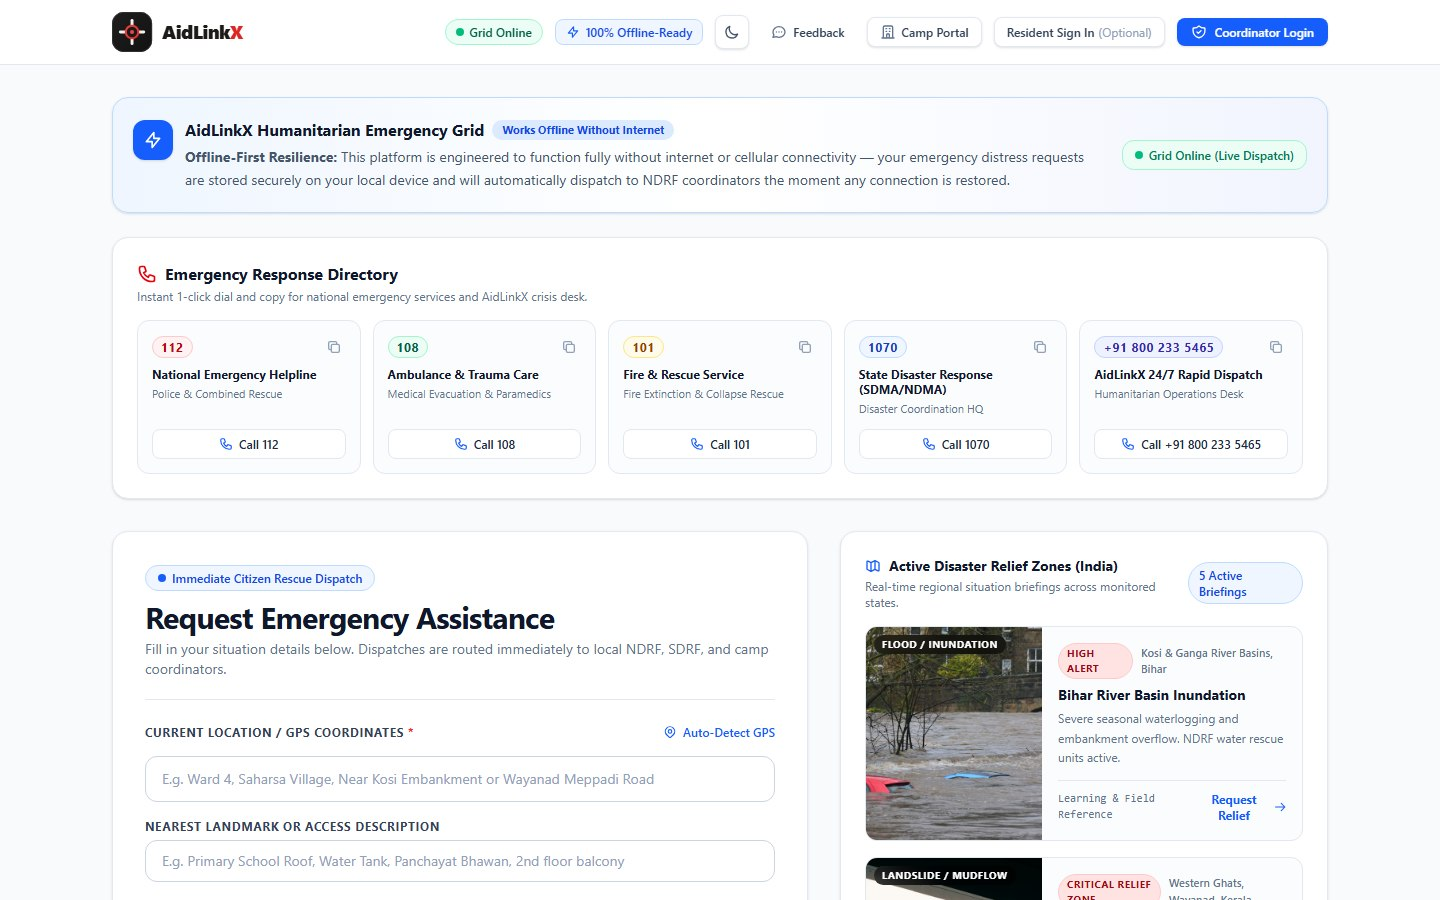
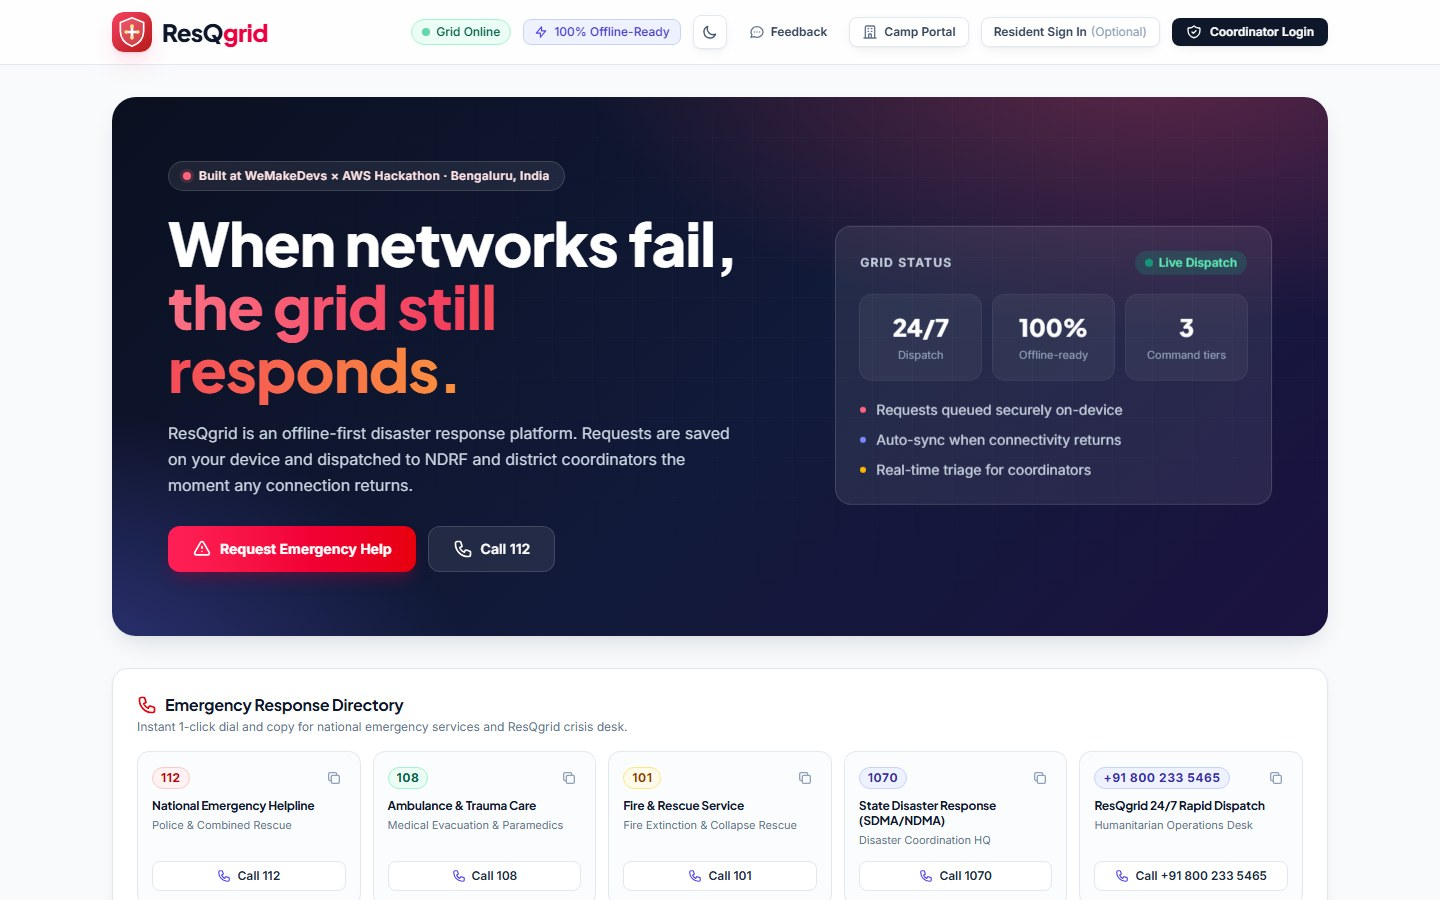
feat: ResQGrid build log page, refreshed interface screenshot

diff --git a/app/projects/resqgrid/page.tsx b/app/projects/resqgrid/page.tsx
@@ -1,0 +1,211 @@
+import type { Metadata } from "next";
+import Image from "next/image";
+import Link from "next/link";
+import Shell, { SectionHeading } from "../../components/shell";
+import { ArrowUpRight, GitHubIcon } from "../../components/socials";
+
+export const metadata: Metadata = {
+  title: "ResQGrid — Naiyar Hasnain",
+  description:
+    "An offline-first disaster relief coordination grid, built at the AWS First Commit Hackathon 2026 in Bengaluru. Angular, Spring Boot, MySQL and AWS.",
+};
+
+const LIVE = "https://main.d1vtxuu4ic8mpk.amplifyapp.com";
+const REPO = "https://github.com/iamnaiyarhasnain/ResQGrid";
+const POST = "https://lnkd.in/p/d-NEqNTJ";
+
+const roles = [
+  { title: "Residents", note: "request help, even with no signal" },
+  { title: "Camp workers", note: "manage and consolidate what a camp needs" },
+  { title: "Coordinators", note: "track, dispatch and update every request" },
+];
+
+const flow = [
+  { title: "Request", body: "A resident fills in location, disaster type, urgency, vulnerabilities and an optional photo." },
+  { title: "Queue on device", body: "If the network is down, the request is stored locally in the browser. Nothing is lost." },
+  { title: "Sync", body: "When connectivity returns, queued requests are sent automatically, with a manual sync as backup." },
+  { title: "Dispatch", body: "Coordinators move each request Pending → Accepted → Dispatched → Delivered." },
+];
+
+const stack = [
+  { title: "Frontend", note: "Angular 22, TypeScript, Tailwind CSS 4 on AWS Amplify" },
+  { title: "Backend", note: "Spring Boot 4, Java 21, Spring Data JPA, in Docker on ECS Fargate" },
+  { title: "Data", note: "MySQL 8 on Amazon RDS" },
+  { title: "Delivery", note: "Images in Amazon ECR, behind an Application Load Balancer" },
+];
+
+const tags = ["Angular", "TypeScript", "Tailwind CSS", "Spring Boot", "Java 21", "MySQL", "AWS Amplify", "ECS Fargate", "Amazon ECR", "Amazon RDS", "Docker"];
+
+function Photo({ src, alt, ratio, caption }: { src: string; alt: string; ratio: string; caption?: React.ReactNode }) {
+  return (
+    <figure>
+      <div className={`shot relative ${ratio}`}>
+        <Image src={src} alt={alt} fill sizes="(max-width: 1024px) 100vw, 720px" unoptimized className="object-cover" />
+      </div>
+      {caption && <figcaption className="mt-3 text-[13px] leading-relaxed text-body">{caption}</figcaption>}
+    </figure>
+  );
+}
+
+export default function ResQGrid() {
+  return (
+    <Shell>
+      <article className="flex flex-col gap-16 lg:gap-[72px]">
+        <header className="anim-fade-up">
+          <Link href="/#projects" className="text-[13px] text-mute transition-colors hover:text-ink">
+            ← all projects
+          </Link>
+          <p className="mt-6 text-[11px] font-semibold uppercase tracking-[0.12em] text-[#b5523b]">
+            AWS First Commit Hackathon 2026 · WeMakeDevs × AWS · Bengaluru · Team COM.SOLOSTACK
+          </p>
+          <h1 className="mt-3 font-serif text-[44px] leading-[1.02] tracking-[-0.02em] text-ink sm:text-[56px]">
+            ResQGrid
+          </h1>
+          <p className="mt-3 max-w-xl font-serif text-[22px] leading-snug text-body">
+            Keeping relief connected <em className="text-[#b5523b]">when networks fail.</em>
+          </p>
+          <p className="mt-4 max-w-xl text-[15px] leading-7 text-body">
+            Floods and other emergencies take the network down exactly when people need to ask for
+            help. ResQGrid lets residents, camp workers and coordinators send and track requests
+            anyway. Offline requests wait on the device and sync the moment connectivity returns.
+          </p>
+          <div className="mt-6 flex flex-wrap gap-2">
+            <a href={LIVE} target="_blank" rel="noopener noreferrer" className="btn-primary !w-auto">
+              <ArrowUpRight />
+              Live app
+            </a>
+            <a href={REPO} target="_blank" rel="noopener noreferrer" className="btn-secondary !w-auto">
+              <GitHubIcon />
+              View on GitHub
+            </a>
+            <a href={POST} target="_blank" rel="noopener noreferrer" className="btn-secondary !w-auto">
+              <ArrowUpRight />
+              LinkedIn post
+            </a>
+          </div>
+        </header>
+
+        <Photo
+          src="/resqgrid/banner.jpg"
+          alt="At the WeMakeDevs × AWS Bharat Builds Tour banner"
+          ratio="aspect-[4/5] sm:aspect-[16/10]"
+          caption="Bharat Builds Tour, in collaboration with AWS Builder Center. Day one, before a single line was deployed."
+        />
+
+        <section>
+          <SectionHeading>the idea.</SectionHeading>
+          <p className="font-serif text-[24px] leading-snug text-ink">
+            One grid, three roles, <em className="text-[#b5523b]">zero dependence on signal</em>.
+          </p>
+          <ul className="mt-6 grid gap-3 sm:grid-cols-3">
+            {roles.map((r, i) => (
+              <li key={r.title} className="surface-soft p-4">
+                <span className="inline-flex h-6 w-6 items-center justify-center rounded-md bg-[#f6e3de] text-[12px] font-semibold text-[#b5523b]">
+                  {i + 1}
+                </span>
+                <p className="mt-3 text-[14px] font-medium text-ink">{r.title}</p>
+                <p className="mt-1 text-[13px] text-mute">{r.note}</p>
+              </li>
+            ))}
+          </ul>
+        </section>
+
+        <section>
+          <SectionHeading>how it works.</SectionHeading>
+          <ol className="space-y-6">
+            {flow.map((s, i) => (
+              <li key={s.title} className="relative pl-10">
+                {i < flow.length - 1 && (
+                  <span aria-hidden="true" className="absolute bottom-[-24px] left-[13px] top-7 w-px bg-line" />
+                )}
+                <span className="absolute left-0 top-0 inline-flex h-7 w-7 items-center justify-center rounded-full border-[1.5px] border-ink bg-white font-serif text-[14px] text-ink">
+                  {i + 1}
+                </span>
+                <h3 className="text-[15px] font-semibold text-ink">{s.title}</h3>
+                <p className="mt-1 text-[14px] leading-relaxed text-body">{s.body}</p>
+              </li>
+            ))}
+          </ol>
+        </section>
+
+        <section>
+          <SectionHeading>the interface.</SectionHeading>
+          <div className="shot">
+            <div className="shot-bar"><span /><span /><span /></div>
+            <div className="relative aspect-[1440/1500]">
+              <Image src="/resqgrid/interface-full.jpg" alt="ResQGrid home: hero, emergency directory, request form and active relief zones" fill sizes="(max-width: 1024px) 100vw, 720px" unoptimized className="object-cover object-top" />
+            </div>
+          </div>
+          <p className="mt-3 text-[13px] text-mute">
+            The resident help desk: emergency directory, the request form and active disaster relief zones.
+          </p>
+        </section>
+
+        <section>
+          <SectionHeading>the build.</SectionHeading>
+          <p className="font-serif text-[22px] leading-snug text-ink">
+            Building, debugging, deploying and learning one step at a time.
+          </p>
+          <div className="mt-5 grid gap-5 sm:grid-cols-2">
+            <Photo
+              src="/resqgrid/at-work.jpg"
+              alt="Building at the hackathon hall"
+              ratio="aspect-[4/3]"
+              caption="Heads down in the hall with the rest of the teams."
+            />
+            <Photo
+              src="/resqgrid/ecr-push.jpg"
+              alt="Pushing the ResQGrid backend Docker image to Amazon ECR"
+              ratio="aspect-[4/3]"
+              caption={<><strong className="font-semibold text-ink">The moment it got real:</strong> pushing the backend image to ECR, after fixing an authorization error along the way.</>}
+            />
+          </div>
+          <div className="mt-5">
+            <Photo
+              src="/resqgrid/venue.jpg"
+              alt="At the Polaris School of Technology venue"
+              ratio="aspect-[16/9]"
+              caption="Polaris School of Technology, Bengaluru: the venue for the weekend."
+            />
+          </div>
+          <ul className="mt-8 grid gap-x-8 gap-y-4 sm:grid-cols-2">
+            {stack.map((h, i) => (
+              <li key={h.title} className="flex gap-3">
+                <span className="mt-0.5 inline-flex h-5 w-5 flex-none items-center justify-center rounded-full bg-[#b5523b] text-[11px] font-semibold text-white">
+                  {i + 1}
+                </span>
+                <span>
+                  <span className="block text-[14px] font-medium text-ink">{h.title}</span>
+                  <span className="block text-[13px] text-mute">{h.note}</span>
+                </span>
+              </li>
+            ))}
+          </ul>
+        </section>
+
+        <section>
+          <SectionHeading>what it was really about.</SectionHeading>
+          <p className="font-serif text-[24px] leading-snug text-ink">
+            Not another app: <em className="text-[#b5523b]">learning AWS</em>, understanding cloud
+            deployment, and turning an idea into something that actually runs.
+          </p>
+          <div className="mt-6">
+            <Photo
+              src="/resqgrid/pizza.jpg"
+              alt="A pizza between builds"
+              ratio="aspect-[16/9]"
+              caption="Fuel. Every hackathon runs on it."
+            />
+          </div>
+          <div className="mt-6 flex flex-wrap gap-1.5">
+            {tags.map((t) => (
+              <span key={t} className="chip">
+                {t}
+              </span>
+            ))}
+          </div>
+        </section>
+      </article>
+    </Shell>
+  );
+}

diff --git a/app/page.tsx b/app/page.tsx
@@ -37,8 +37,8 @@ const events = [
       { src: "/resqgrid/ecr-push.jpg", alt: "Pushing the ResQGrid backend Docker image to Amazon ECR" },
       { src: "/resqgrid/venue.jpg", alt: "At the Polaris School of Technology venue" },
     ],
-    href: RESQ_REPO,
-    cta: "View ResQGrid on GitHub →",
+    href: "/projects/resqgrid",
+    cta: "See the full build log →",
   },
 ];
 
@@ -151,7 +151,7 @@ export default function Home() {
 
             {/* ResQGrid */}
             <article className="group flex flex-col">
-              <a href={RESQ_LIVE} target="_blank" rel="noopener noreferrer" className="block">
+              <Link href="/projects/resqgrid" className="block">
                 <div className="shot">
                   <div className="shot-bar"><span /><span /><span /></div>
                   <div className="relative aspect-[16/9] bg-[#f6f6f6]">
@@ -165,10 +165,10 @@ export default function Home() {
                     />
                   </div>
                 </div>
-              </a>
+              </Link>
               <div className="flex items-start justify-between gap-3 pt-4">
                 <h3 className="min-w-0 text-[16px] font-semibold leading-snug tracking-[-0.02em] text-ink">
-                  <a href={RESQ_LIVE} target="_blank" rel="noopener noreferrer">ResQGrid</a>
+                  <Link href="/projects/resqgrid">ResQGrid</Link>
                   <span className="ml-2 rounded-full border border-[#cfe3d3] bg-[#e7f3e3] px-2 py-0.5 align-middle text-[10px] font-medium text-[#2f6b3a]">
                     Live
                   </span>
